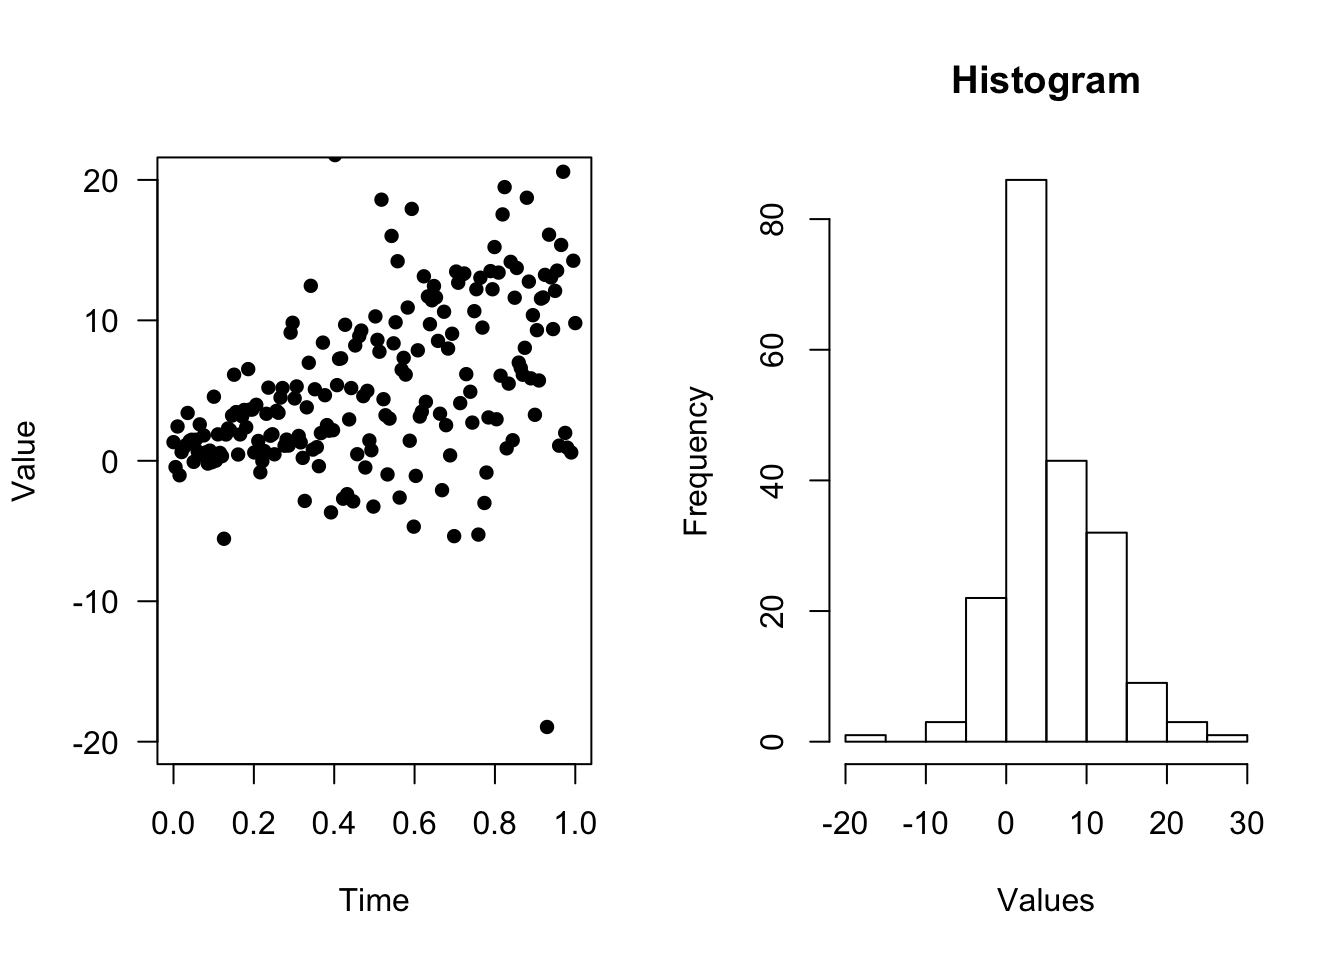
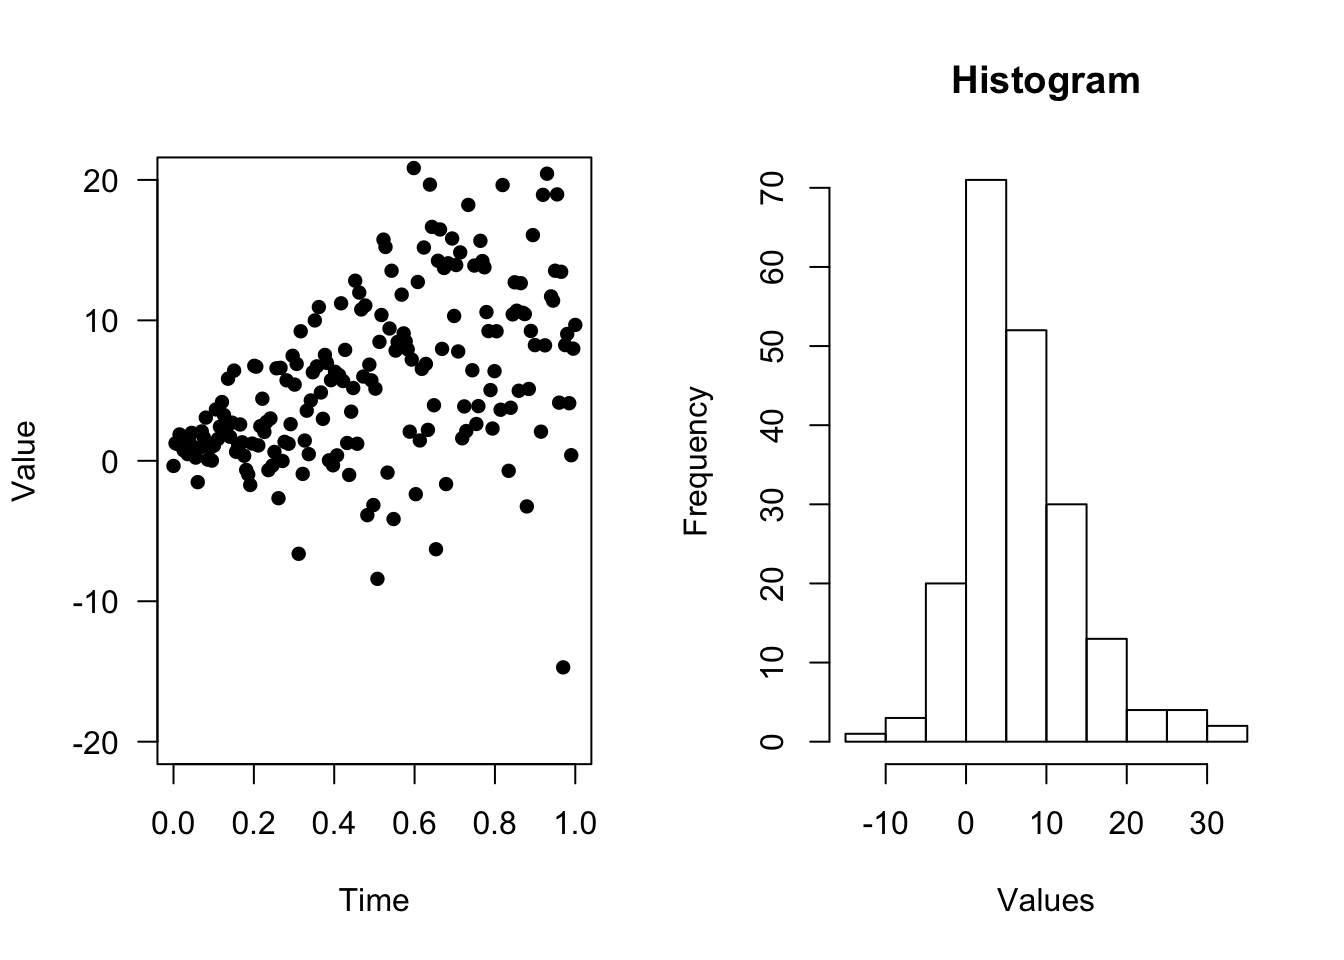
re-gen docs

diff --git a/docs/reference/queue.html b/docs/reference/queue.html
@@ -257,15 +257,15 @@ stores data in memory, meaning a potential of significant speed ups. To use
 <span class='co'># indicating when the message was pushed. `key` is unique key</span>
 <span class='co'># generated from `time`, `value` and queue internal `ID`</span>
 <span class='no'>queue</span>$<span class='fu'><a href='https://rdrr.io/r/base/list.html'>list</a></span>()</div><div class='output co'>#&gt;                             time                              key
-#&gt; 1 2019-11-14 16:23:47.268912 CST b99ff351a22a032ae11111d83156b5e2
-#&gt; 2 2019-11-14 16:23:47.279727 CST 8878b2e2dfe924bb6d52ac29a724d4c1
-#&gt; 3 2019-11-14 16:23:47.288867 CST 4b72a8c8ee78bb3ae92e0549b15e83c3
-#&gt; 4 2019-11-14 16:23:47.308223 CST 8c89fb0c2bffed87ee2efe92996c837a
+#&gt; 1 2019-11-14 16:29:10.972634 CST a3b62761e14ed03700f16e2e52776ca7
+#&gt; 2 2019-11-14 16:29:10.982954 CST 9eb2c94c7b7f2795e97993c1f568aaf2
+#&gt; 3 2019-11-14 16:29:10.991645 CST 95a9d5d3706b4bec7b9de27c08da92e5
+#&gt; 4 2019-11-14 16:29:11.009660 CST 75cc94ccf0513912daa1882b34e9e1da
 #&gt;                               hash message
-#&gt; 1 b99ff351a22a032ae11111d83156b5e2   hello
-#&gt; 2 8878b2e2dfe924bb6d52ac29a724d4c1    eval
-#&gt; 3 4b72a8c8ee78bb3ae92e0549b15e83c3     sum
-#&gt; 4 8c89fb0c2bffed87ee2efe92996c837a    stop</div><div class='input'>
+#&gt; 1 a3b62761e14ed03700f16e2e52776ca7   hello
+#&gt; 2 9eb2c94c7b7f2795e97993c1f568aaf2    eval
+#&gt; 3 95a9d5d3706b4bec7b9de27c08da92e5     sum
+#&gt; 4 75cc94ccf0513912daa1882b34e9e1da    stop</div><div class='input'>
 <span class='co'># Number of messages in the queue.</span>
 <span class='no'>queue</span>$<span class='no'>count</span></div><div class='output co'>#&gt; [1] 4</div><div class='input'>
 <span class='co'># Number of messages that were ever queued.</span>
@@ -273,13 +273,13 @@ stores data in memory, meaning a potential of significant speed ups. To use
 <span class='co'># Return and remove the first messages that were added.</span>
 <span class='no'>queue</span>$<span class='fu'>pop</span>(<span class='fl'>2</span>)</div><div class='output co'>#&gt; [[1]]
 #&gt; [[1]]$time
-#&gt; [1] "2019-11-14 16:23:47.268912 CST"
+#&gt; [1] "2019-11-14 16:29:10.972634 CST"
 #&gt; 
 #&gt; [[1]]$key
-#&gt; [1] "b99ff351a22a032ae11111d83156b5e2"
+#&gt; [1] "a3b62761e14ed03700f16e2e52776ca7"
 #&gt; 
 #&gt; [[1]]$hash
-#&gt; [1] "b99ff351a22a032ae11111d83156b5e2"
+#&gt; [1] "a3b62761e14ed03700f16e2e52776ca7"
 #&gt; 
 #&gt; [[1]]$message
 #&gt; [1] "hello"
@@ -290,13 +290,13 @@ stores data in memory, meaning a potential of significant speed ups. To use
 #&gt; 
 #&gt; [[2]]
 #&gt; [[2]]$time
-#&gt; [1] "2019-11-14 16:23:47.279727 CST"
+#&gt; [1] "2019-11-14 16:29:10.982954 CST"
 #&gt; 
 #&gt; [[2]]$key
-#&gt; [1] "8878b2e2dfe924bb6d52ac29a724d4c1"
+#&gt; [1] "9eb2c94c7b7f2795e97993c1f568aaf2"
 #&gt; 
 #&gt; [[2]]$hash
-#&gt; [1] "8878b2e2dfe924bb6d52ac29a724d4c1"
+#&gt; [1] "9eb2c94c7b7f2795e97993c1f568aaf2"
 #&gt; 
 #&gt; [[2]]$message
 #&gt; [1] "eval"
@@ -306,18 +306,18 @@ stores data in memory, meaning a potential of significant speed ups. To use
 #&gt; expr: </span><span style='color: #0000BB;'>^{
 #&gt;           sqrt(16)
 #&gt;         }</span><span>
-#&gt; env:  </span><span style='color: #0000BB;'>0x7fb43249bac8</span><span>
+#&gt; env:  </span><span style='color: #0000BB;'>0x7fd02c13d348</span><span>
 #&gt; 
 #&gt; </div><div class='input'>
 <span class='co'># Number of messages in the queue.</span>
 <span class='no'>queue</span>$<span class='no'>count</span></div><div class='output co'>#&gt; [1] 2</div><div class='input'>
 <span class='co'># List what's left</span>
 <span class='no'>queue</span>$<span class='fu'><a href='https://rdrr.io/r/base/list.html'>list</a></span>()</div><div class='output co'>#&gt;                             time                              key
-#&gt; 1 2019-11-14 16:23:47.288867 CST 4b72a8c8ee78bb3ae92e0549b15e83c3
-#&gt; 2 2019-11-14 16:23:47.308223 CST 8c89fb0c2bffed87ee2efe92996c837a
+#&gt; 1 2019-11-14 16:29:10.991645 CST 95a9d5d3706b4bec7b9de27c08da92e5
+#&gt; 2 2019-11-14 16:29:11.009660 CST 75cc94ccf0513912daa1882b34e9e1da
 #&gt;                               hash message
-#&gt; 1 4b72a8c8ee78bb3ae92e0549b15e83c3     sum
-#&gt; 2 8c89fb0c2bffed87ee2efe92996c837a    stop</div><div class='input'>
+#&gt; 1 95a9d5d3706b4bec7b9de27c08da92e5     sum
+#&gt; 2 75cc94ccf0513912daa1882b34e9e1da    stop</div><div class='input'>
 <span class='no'>val1</span> <span class='kw'>&lt;-</span> <span class='no'>queue</span>$<span class='fu'>pop</span>()
 <span class='no'>val2</span> <span class='kw'>&lt;-</span> <span class='no'>queue</span>$<span class='fu'>pop</span>()
 
@@ -345,19 +345,19 @@ stores data in memory, meaning a potential of significant speed ups. To use
 <span class='fu'><a href='https://rdrr.io/r/base/Sys.sleep.html'>Sys.sleep</a></span>(<span class='fl'>0.2</span>)
 <span class='no'>message</span> <span class='kw'>=</span> <span class='no'>queue</span>$<span class='fu'>pop</span>()
 <span class='no'>message</span><span class='kw'>[[</span><span class='fl'>1</span>]]</div><div class='output co'>#&gt; $time
-#&gt; [1] "2019-11-14 16:23:47.427717 CST"
+#&gt; [1] "2019-11-14 16:29:11.136639 CST"
 #&gt; 
 #&gt; $key
-#&gt; [1] "6108378cfd59b8128c838caf3ed37b11"
+#&gt; [1] "c32c026f027250644f6a81ef6c46fd9d"
 #&gt; 
 #&gt; $hash
-#&gt; [1] "A\n3\n198145\n197888\n5\nUTF-8\n13\n1\n98725"
+#&gt; [1] "A\n3\n198145\n197888\n5\nUTF-8\n13\n1\n99962"
 #&gt; 
 #&gt; $message
 #&gt; [1] ""
 #&gt; 
 #&gt; $value
-#&gt; [1] 98725
+#&gt; [1] 99962
 #&gt; </div><div class='input'>
 <span class='co'># ----------------------Shiny Example ----------------------</span>
 <span class='fu'><a href='https://rdrr.io/r/base/library.html'>library</a></span>(<span class='no'>shiny</span>)

diff --git a/docs/reference/collapse.html b/docs/reference/collapse.html
@@ -190,8 +190,8 @@ collapsing dimensions</p>
   }
 )</div><div class='output co'>#&gt; Unit: microseconds
 #&gt;     expr     min      lq    mean  median      uq     max neval
-#&gt;   result 292.216 292.216 292.216 292.216 292.216 292.216     1
-#&gt;  compare  74.287  74.287  74.287  74.287  74.287  74.287     1</div><div class='input'>
+#&gt;   result 300.806 300.806 300.806 300.806 300.806 300.806     1
+#&gt;  compare  73.247  73.247  73.247  73.247  73.247  73.247     1</div><div class='input'>
 <span class='co'># large data big difference</span>
 <span class='no'>x</span> <span class='kw'>=</span> <span class='fu'><a href='https://rdrr.io/r/base/array.html'>array</a></span>(<span class='fu'><a href='https://rdrr.io/r/stats/Normal.html'>rnorm</a></span>(<span class='fu'><a href='https://rdrr.io/r/base/prod.html'>prod</a></span>(<span class='fl'>300</span>,<span class='fl'>200</span>,<span class='fl'>105</span>)), <span class='fu'><a href='https://rdrr.io/r/base/c.html'>c</a></span>(<span class='fl'>300</span>,<span class='fl'>200</span>,<span class='fl'>105</span>,<span class='fl'>1</span>))
 <span class='kw pkg'>microbenchmark</span><span class='kw ns'>::</span><span class='fu'><a href='https://rdrr.io/pkg/microbenchmark/man/microbenchmark.html'>microbenchmark</a></span>(
@@ -201,8 +201,8 @@ collapsing dimensions</p>
     <span class='fu'><a href='https://rdrr.io/r/base/Extremes.html'>max</a></span>(<span class='fu'><a href='https://rdrr.io/r/base/MathFun.html'>abs</a></span>(<span class='fu'><a href='https://rdrr.io/r/base/range.html'>range</a></span>(<span class='fu'><a href='https://rdrr.io/r/base/do.call.html'>do.call</a></span>(<span class='st'>'-'</span>, <span class='no'>v</span>)))) <span class='kw'>&lt;</span> <span class='fl'>1e-10</span>
   })</div><div class='output co'>#&gt; Unit: milliseconds
 #&gt;     expr       min        lq      mean    median        uq       max neval
-#&gt;   result  65.45167  65.45167  65.45167  65.45167  65.45167  65.45167     1
-#&gt;  compare 117.09873 117.09873 117.09873 117.09873 117.09873 117.09873     1</div><div class='input'>
+#&gt;   result  50.67043  50.67043  50.67043  50.67043  50.67043  50.67043     1
+#&gt;  compare 125.08571 125.08571 125.08571 125.08571 125.08571 125.08571     1</div><div class='input'>
 </div></pre>
   </div>
   <div class="col-md-3 hidden-xs hidden-sm" id="sidebar">

diff --git a/docs/reference/grapes-equals-greater-than-grapes.html b/docs/reference/grapes-equals-greater-than-grapes.html
@@ -163,7 +163,7 @@ the function body</p>
 #&gt; {
 #&gt;     print(a)
 #&gt; }
-#&gt; &lt;environment: 0x7fb432423068&gt;</div><div class='input'>
+#&gt; &lt;environment: 0x7fd02c0cca50&gt;</div><div class='input'>
 <span class='co'># Informal arguments</span>
 <span class='fu'><a href='https://rdrr.io/r/base/list.html'>list</a></span>(<span class='kw'>a</span><span class='kw'>=</span>) <span class='kw'>%=&gt;%</span> {
   <span class='fu'><a href='https://rdrr.io/r/base/print.html'>print</a></span>(<span class='no'>a</span>)
@@ -171,7 +171,7 @@ the function body</p>
 #&gt; {
 #&gt;     print(a)
 #&gt; }
-#&gt; &lt;environment: 0x7fb432423068&gt;</div><div class='input'>
+#&gt; &lt;environment: 0x7fd02c0cca50&gt;</div><div class='input'>
 <span class='co'># Multiple inputs</span>
 <span class='fu'><a href='https://rdrr.io/r/base/c.html'>c</a></span>(<span class='no'>a</span>, <span class='kw'>b</span> <span class='kw'>=</span> <span class='fl'>2</span>, <span class='no'>...</span>) <span class='kw'>%=&gt;%</span> {
   <span class='fu'><a href='https://rdrr.io/r/base/print.html'>print</a></span>(<span class='fu'><a href='https://rdrr.io/r/base/c.html'>c</a></span>(<span class='no'>a</span>, <span class='no'>b</span>, <span class='no'>...</span>))
@@ -179,7 +179,7 @@ the function body</p>
 #&gt; {
 #&gt;     print(c(a, b, ...))
 #&gt; }
-#&gt; &lt;environment: 0x7fb432423068&gt;</div><div class='input'>
+#&gt; &lt;environment: 0x7fd02c0cca50&gt;</div><div class='input'>
 <span class='co'># ----- JavaScript style of forEach -----</span>
 <span class='co'># ### Equivalent JavaScript Code:</span>
 <span class='co'># LETTERS.forEach((el, ii) =&gt; {</span>

diff --git a/docs/articles/r_expr_addons.html b/docs/articles/r_expr_addons.html
@@ -252,11 +252,11 @@ li.map((el, ii) => {
 <a class="sourceLine" id="cb14-21" data-line-number="21"><span class="st">  </span><span class="kw"><a href="../reference/no_op.html">no_op</a></span>(hist, <span class="dt">xlab =</span> <span class="st">'Values'</span>, <span class="dt">main =</span> <span class="st">'Histogram'</span>) -&gt;</a>
 <a class="sourceLine" id="cb14-22" data-line-number="22"><span class="st">  </span>result</a>
 <a class="sourceLine" id="cb14-23" data-line-number="23"><span class="co">#&gt;    Min. 1st Qu.  Median    Mean 3rd Qu.    Max. </span></a>
-<a class="sourceLine" id="cb14-24" data-line-number="24"><span class="co">#&gt; -18.953   1.082   3.731   5.422   9.535  25.663</span></a></code></pre></div>
+<a class="sourceLine" id="cb14-24" data-line-number="24"><span class="co">#&gt; -14.708   1.316   5.553   6.552  10.430  31.146</span></a></code></pre></div>
 <p><img src="r_expr_addons_files/figure-html/unnamed-chunk-15-1.png" width="672"></p>
 <div class="sourceCode" id="cb15"><pre class="sourceCode r"><code class="sourceCode r"><a class="sourceLine" id="cb15-1" data-line-number="1"></a>
 <a class="sourceLine" id="cb15-2" data-line-number="2"><span class="kw"><a href="https://rdrr.io/r/utils/str.html">str</a></span>(result)</a>
-<a class="sourceLine" id="cb15-3" data-line-number="3"><span class="co">#&gt;  num [1:200] 1.328 -0.449 2.444 -1.033 0.623 ...</span></a></code></pre></div>
+<a class="sourceLine" id="cb15-3" data-line-number="3"><span class="co">#&gt;  num [1:200] -0.366 1.251 1.199 1.878 1.593 ...</span></a></code></pre></div>
 </div>
 <div id="do_aggregate" class="section level4">
 <h4 class="hasAnchor">

diff --git a/docs/reference/time_delta.html b/docs/reference/time_delta.html
@@ -163,7 +163,7 @@
 <span class='fu'><a href='https://rdrr.io/r/base/Sys.sleep.html'>Sys.sleep</a></span>(<span class='fl'>0.3</span>)
 <span class='no'>b</span> <span class='kw'>=</span> <span class='fu'><a href='https://rdrr.io/r/base/Sys.time.html'>Sys.time</a></span>()
 
-<span class='fu'>time_delta</span>(<span class='no'>a</span>, <span class='no'>b</span>) <span class='co'># In seconds, around 0.3</span></div><div class='output co'>#&gt; [1] 0.3012011</div><div class='input'><span class='fu'>time_delta</span>(<span class='no'>a</span>, <span class='no'>b</span>, <span class='st'>'mins'</span>) <span class='co'># in minutes, around 0.005</span></div><div class='output co'>#&gt; [1] 0.005020018</div><div class='input'>
+<span class='fu'>time_delta</span>(<span class='no'>a</span>, <span class='no'>b</span>) <span class='co'># In seconds, around 0.3</span></div><div class='output co'>#&gt; [1] 0.3034451</div><div class='input'><span class='fu'>time_delta</span>(<span class='no'>a</span>, <span class='no'>b</span>, <span class='st'>'mins'</span>) <span class='co'># in minutes, around 0.005</span></div><div class='output co'>#&gt; [1] 0.005057418</div><div class='input'>
 </div></pre>
   </div>
   <div class="col-md-3 hidden-xs hidden-sm" id="sidebar">

diff --git a/docs/articles/utility_functions.html b/docs/articles/utility_functions.html
@@ -168,7 +168,7 @@
 <a class="sourceLine" id="cb6-20" data-line-number="20"><span class="co">#&gt; [1] 68719476736</span></a>
 <a class="sourceLine" id="cb6-21" data-line-number="21"><span class="co">#&gt; </span></a>
 <a class="sourceLine" id="cb6-22" data-line-number="22"><span class="co">#&gt; $free</span></a>
-<a class="sourceLine" id="cb6-23" data-line-number="23"><span class="co">#&gt; [1] 68678989752</span></a></code></pre></div>
+<a class="sourceLine" id="cb6-23" data-line-number="23"><span class="co">#&gt; [1] 68678989768</span></a></code></pre></div>
 </div>
 <div id="interactive-questions" class="section level4">
 <h4 class="hasAnchor">
